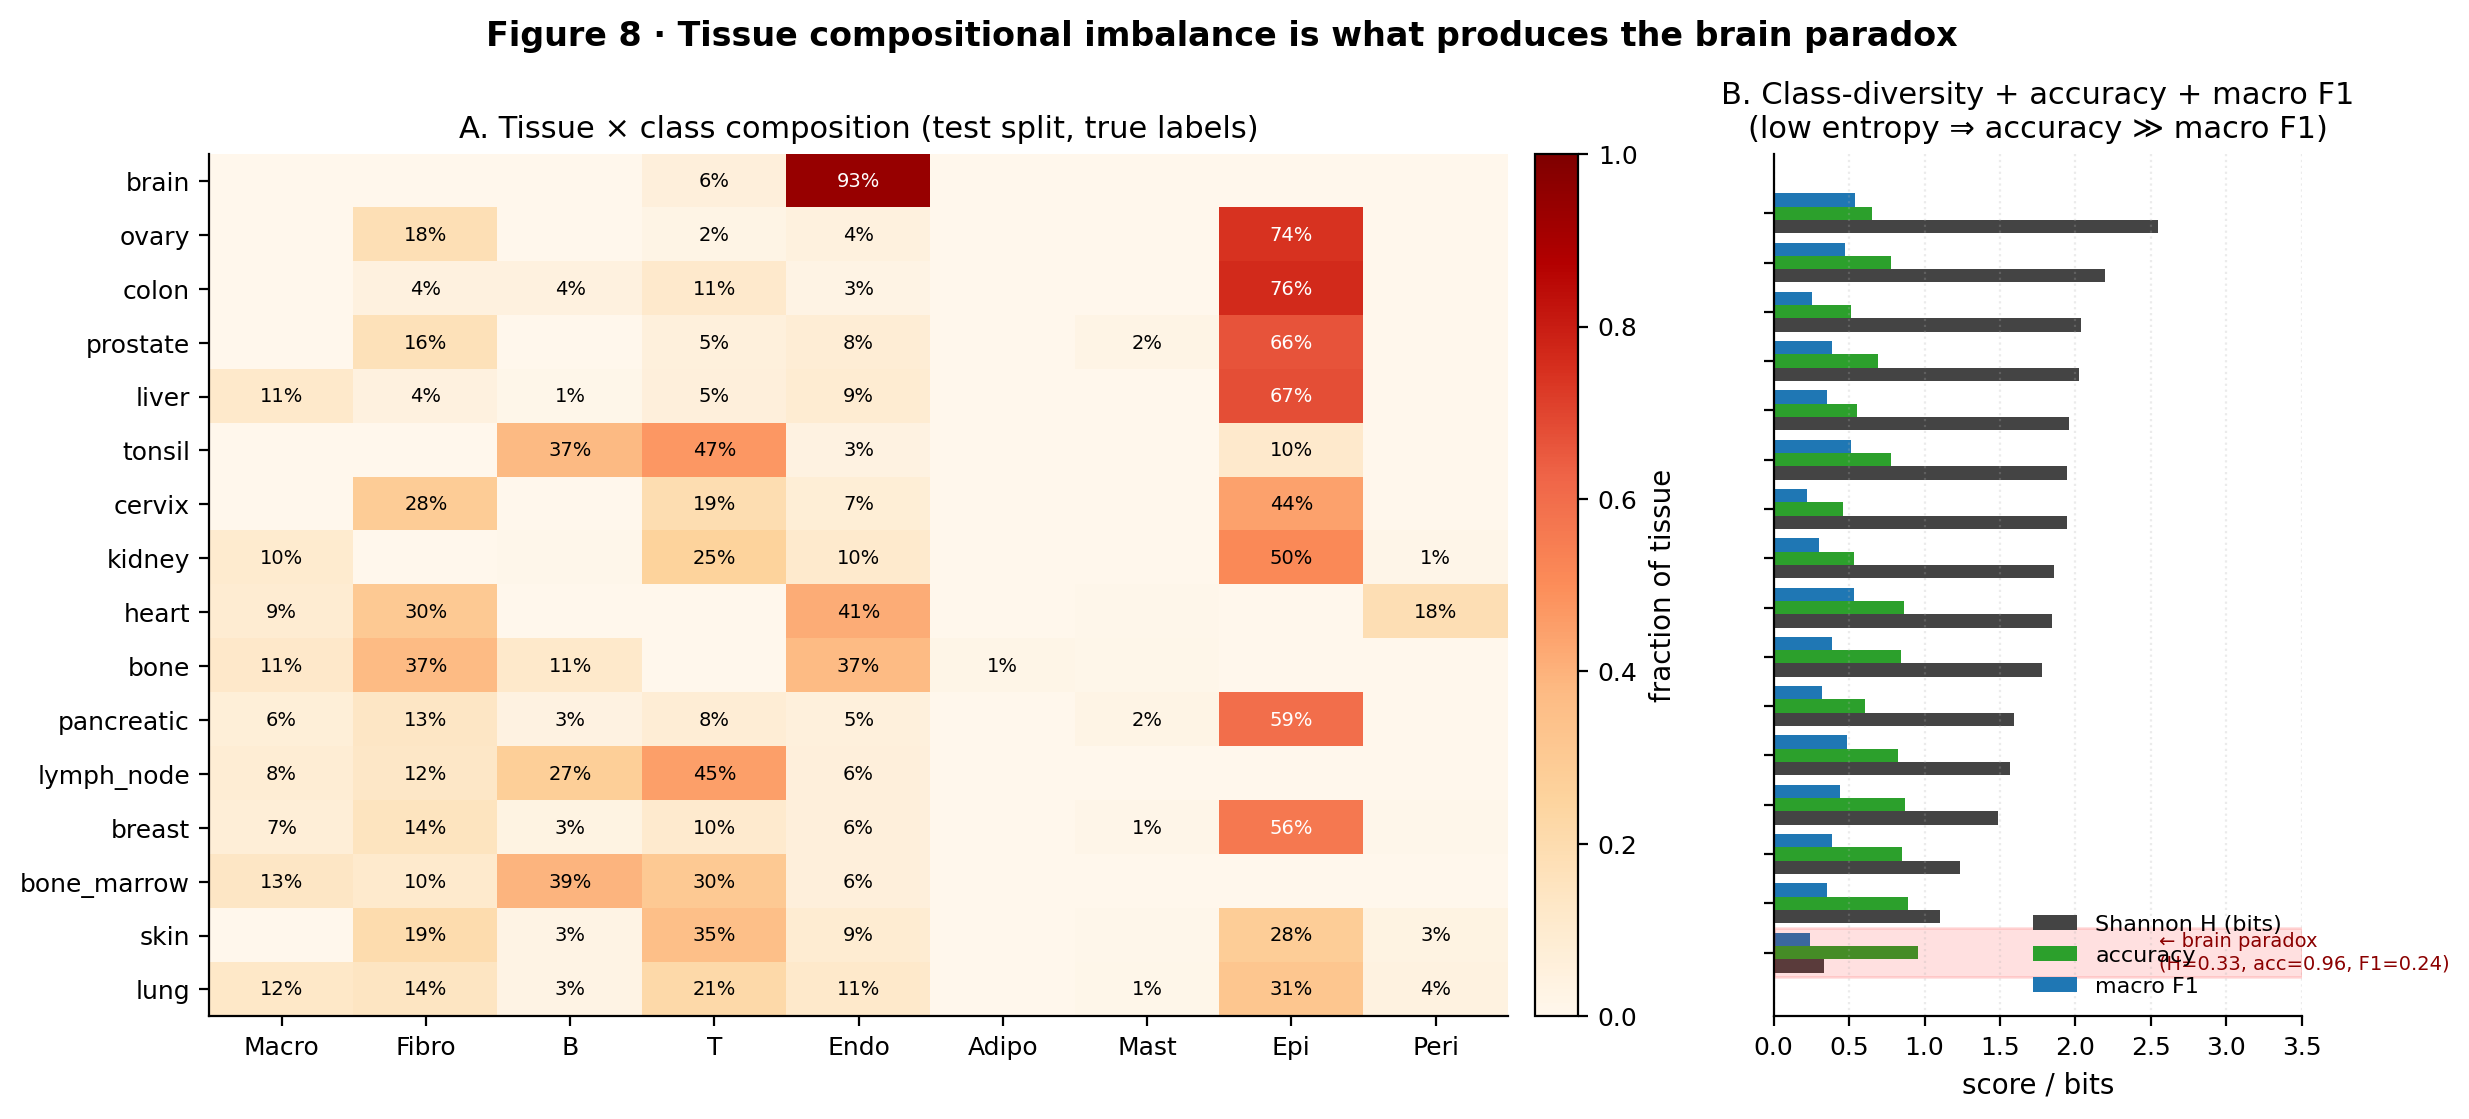
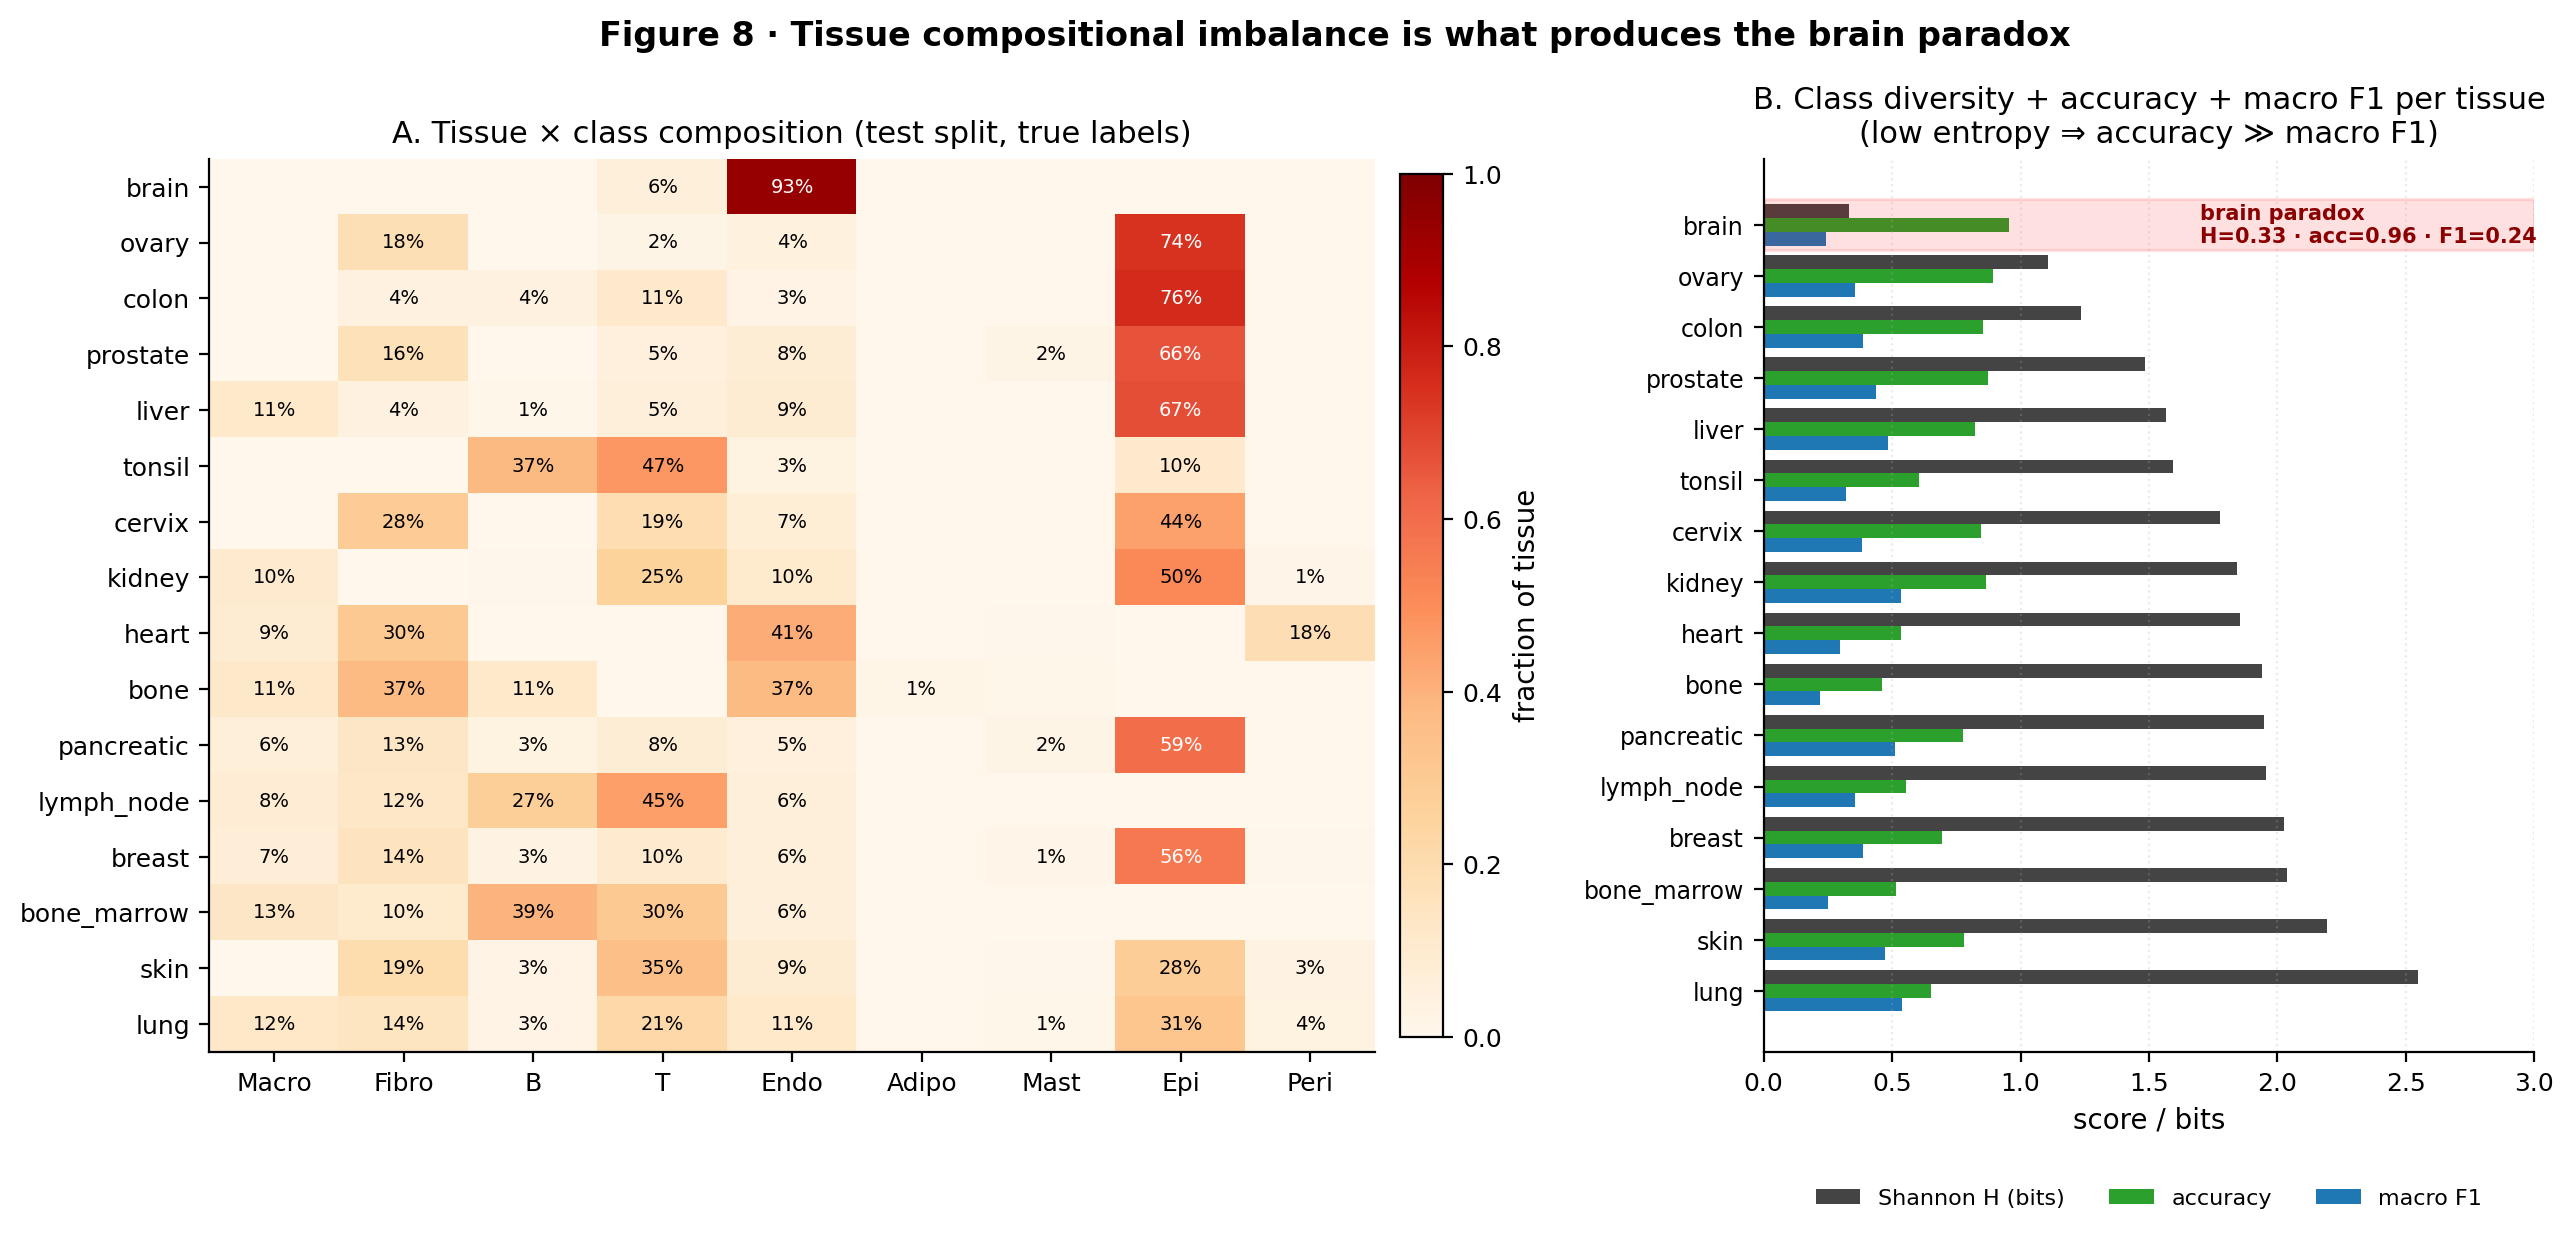
fix(fig8): add tissue labels to panel B, move legend out, align order
User flagged three issues with figure 8 (tissue compositional imbalance):
panel B's y-axis tick labels were missing, the legend overlapped the
bars, and the panels were vertically inverted relative to each other.

Same family of bugs as the fig 6 fix:
  - barh's y=0 is at the bottom while imshow's row 0 is at the top, so
    panels A and B rendered with opposite tissue orderings until
    invert_yaxis() was added on B
  - set_yticklabels([]) emptied panel B's tick labels (legacy of
    "panel A has them, B is decoration"); restored to tissue names
  - legend at loc="lower right" sat on top of the lung row's bars
    (entropy=2.55, the longest bar in the panel)

Also moved the brain-paradox annotation from x=2.55 (where it fought
with high-entropy tissues' entropy bars) to x=1.7, well clear of the
longest bar (brain accuracy=0.96). Widened panel B's width_ratio
1.0→1.5 for the new tissue tick labels and tightened xlim 3.5→3.0
since no bar reaches past 2.6.

Both Obsidian copies refreshed via the sync helper.

diff --git a/scripts/manuscript_figures.py b/scripts/manuscript_figures.py
@@ -598,13 +598,12 @@ def fig8_tissue_class_composition():
              "pericyte": "Peri", "mast cell": "Mast", "adipocyte": "Adipo"}
     class_short = [short[c] for c in classes]
 
-    fig, axes = plt.subplots(1, 2, figsize=(13.5, 5.6),
-                             gridspec_kw={"width_ratios": [2.6, 1.0]})
+    fig, axes = plt.subplots(1, 2, figsize=(15.0, 5.8),
+                             gridspec_kw={"width_ratios": [2.4, 1.5], "wspace": 0.32})
 
-    # Panel A — heat map
+    # Panel A — heat map (origin='upper' default → row 0 at top)
     ax = axes[0]
-    im = ax.imshow(mat_o, cmap="rocket_r", aspect="auto", vmin=0, vmax=1.0) if False else \
-         ax.imshow(mat_o, cmap="OrRd", aspect="auto", vmin=0, vmax=1.0)
+    im = ax.imshow(mat_o, cmap="OrRd", aspect="auto", vmin=0, vmax=1.0)
     ax.set_xticks(range(len(class_short)))
     ax.set_xticklabels(class_short)
     ax.set_yticks(range(len(tissues_o)))
@@ -620,24 +619,35 @@ def fig8_tissue_class_composition():
     ax.set_title("A. Tissue × class composition (test split, true labels)")
     fig.colorbar(im, ax=ax, fraction=0.035, pad=0.02, label="fraction of tissue")
 
-    # Panel B — entropy + accuracy + macro F1 per tissue
+    # Panel B — entropy + accuracy + macro F1 per tissue.
+    # Same invert_yaxis() trick as fig 6: barh's y=0 is at the bottom by
+    # default; we flip so the row order matches Panel A's heatmap. Tick
+    # labels are tissue names so the panel is readable on its own.
     ax = axes[1]
     y = np.arange(len(tissues_o))
     ax.barh(y - 0.27, entropy_o, 0.27, color="#444", label="Shannon H (bits)")
     ax.barh(y, accs_o, 0.27, color=C_GT, label="accuracy")
     ax.barh(y + 0.27, f1_o, 0.27, color=C_DAPI, label="macro F1")
     ax.set_yticks(y)
-    ax.set_yticklabels([])
-    ax.set_xlim(0, 3.5)
-    ax.legend(loc="lower right", frameon=False, fontsize=8)
+    ax.set_yticklabels(tissues_o, fontsize=8.5)
+    ax.invert_yaxis()  # match Panel A's top-to-bottom order
+    ax.set_xlim(0, 3.0)
     ax.set_xlabel("score / bits")
-    ax.set_title("B. Class-diversity + accuracy + macro F1\n(low entropy ⇒ accuracy ≫ macro F1)")
+    ax.set_title("B. Class diversity + accuracy + macro F1 per tissue\n(low entropy ⇒ accuracy ≫ macro F1)")
     ax.grid(axis="x", alpha=0.25, linestyle=":")
-    # Highlight brain
+    # Legend below the panel, three items in one row — never collides with
+    # bars regardless of tissue order or values.
+    ax.legend(loc="upper center", bbox_to_anchor=(0.5, -0.13), ncol=3,
+              frameon=False, fontsize=8)
+    # Highlight brain row (top, since sorted ascending by entropy + inverted).
     brain_idx = tissues_o.index("brain")
     ax.axhspan(brain_idx - 0.5, brain_idx + 0.5, alpha=0.12, color="red")
-    ax.text(2.55, brain_idx, "← brain paradox\n(H=0.33, acc=0.96, F1=0.24)",
-            va="center", fontsize=7, color="darkred")
+    # Inline annotation in the empty area to the right of the bars (brain's
+    # longest bar is accuracy = 0.96, well clear of x = 1.6).
+    ax.text(1.7, brain_idx,
+            "brain paradox\nH=0.33 · acc=0.96 · F1=0.24",
+            va="center", ha="left", fontsize=7.5, color="darkred",
+            fontweight="bold")
 
     fig.suptitle("Figure 8 · Tissue compositional imbalance is what produces the brain paradox",
                  y=1.0, fontsize=12, fontweight="bold")